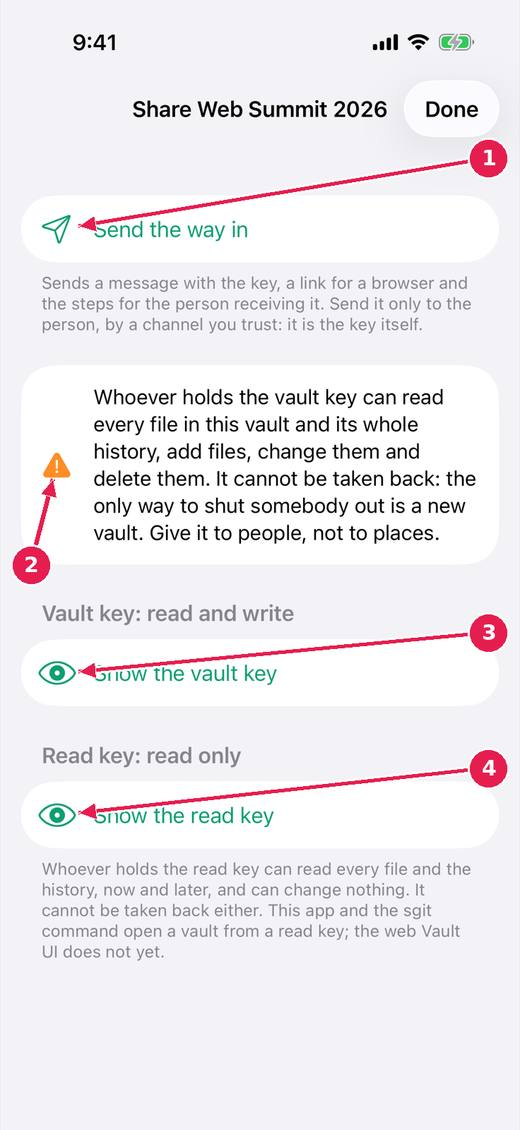
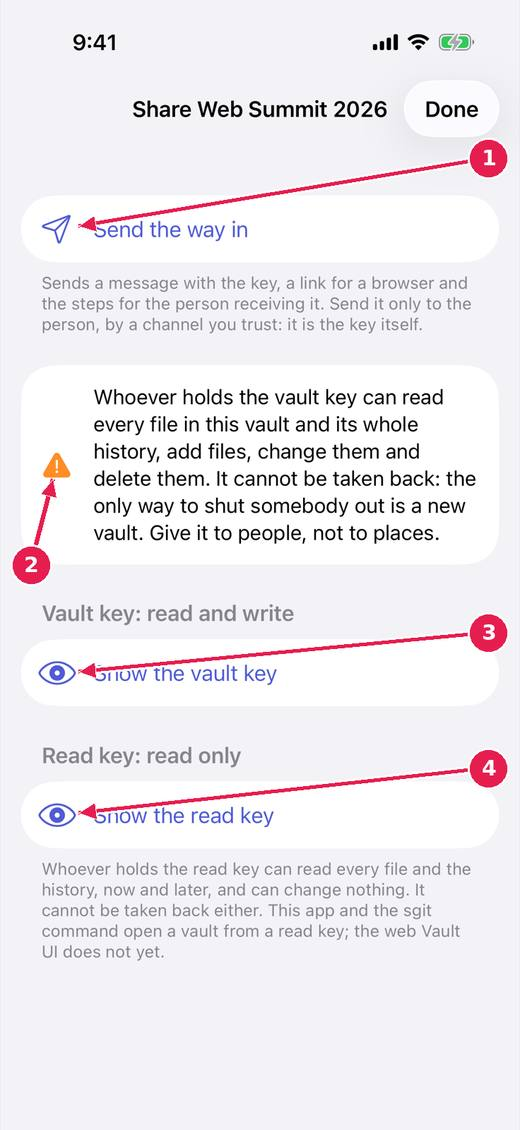
SGit Vaults guides redrawn from the restyled screens (run 43606971217); the home screen's callouts follow its new rows
Claude-Session: https://claude.ai/code/session_018yvwtNnu3tccNWx11H7S2h

diff --git a/website/guides/sgit-start/index.html b/website/guides/sgit-start/index.html
@@ -4,13 +4,13 @@
 <meta charset="utf-8">
 <meta name="viewport" content="width=device-width, initial-scale=1, viewport-fit=cover">
 <title>SGit Vaults: open a vault you were sent, or make one: a guide to VoiceDebrief for iOS</title>
-<meta name="description" content="SGit Vaults keeps photos, videos and large files in an encrypted vault that a teammate can open.">
+<meta name="description" content="SGit Vaults keeps photos, videos, large files and secrets in encrypted vaults that a teammate can open.">
 <link rel="canonical" href="https://ios.app.voicedebrief.ai/guides/sgit-start/index.html">
 <meta property="og:url" content="https://ios.app.voicedebrief.ai/guides/sgit-start/index.html">
 <meta property="og:type" content="website">
 <meta property="og:site_name" content="VoiceDebrief for iOS">
 <meta property="og:title" content="SGit Vaults: open a vault you were sent, or make one: a guide to VoiceDebrief for iOS">
-<meta property="og:description" content="SGit Vaults keeps photos, videos and large files in an encrypted vault that a teammate can open.">
+<meta property="og:description" content="SGit Vaults keeps photos, videos, large files and secrets in encrypted vaults that a teammate can open.">
 <link rel="alternate" type="text/markdown" href="index.md" title="This page as markdown">
 <link rel="icon" href="../../assets/favicon.svg" type="image/svg+xml">
 <link rel="stylesheet" href="../../assets/vd-tokens.css">
@@ -37,16 +37,17 @@
 <main class="doc">
 <div class="crumb"><a href="../../index.html">VoiceDebrief iOS</a> / guides / sgit-start</div>
 <h1 id="sgit-vaults-open-a-vault-you-were-sent-or-make-one">SGit Vaults: open a vault you were sent, or make one</h1>
-<p>SGit Vaults keeps photos, videos and large files in an encrypted vault that a teammate can open. A vault you create is kept on this device and needs no account, no access key and no network until you share it.</p>
+<p>SGit Vaults keeps photos, videos, large files and secrets in encrypted vaults that a teammate can open. A vault you create is kept on this device and needs no account, no access key and no network until you share it.</p>
 <p><a href="../index.html">Every guide</a> · <a href="../../ideas/index.html">Ideas and where they stand</a></p>
 <h2 id="1-the-first-screen">1. The first screen.</h2>
 <p><img class="shot" src="../img/sgit-start-1.jpg" alt="The first screen. Numbered arrows mark the parts described below." loading="lazy"></p>
 <ol>
 <li>A shared vault: on the server, and you can add and change.</li>
 <li>A vault only on this device, not shared with anybody.</li>
-<li>Gallery: vaults to show somebody, each opened in the web Vault inside the app.</li>
-<li>Add a vault you were sent: paste or scan what you were given.</li>
-<li>Create a vault, on this device.</li>
+<li>Secrets: passwords, passcodes, Wi-Fi and keys, kept encrypted in vaults.</li>
+<li>Questions for you, from the people building the app: answer by typing or speaking.</li>
+<li>Guide and what is new: what changed in each version and how each part works.</li>
+<li>Gallery: vaults to show somebody, opened inside the app. Adding a vault you were sent and creating one are further down.</li>
 </ol>
 <h2 id="2-add-a-vault-you-were-sent">2. Add a vault you were sent.</h2>
 <p><img class="shot" src="../img/sgit-start-2.jpg" alt="Add a vault you were sent. Numbered arrows mark the parts described below." loading="lazy"></p>
@@ -61,7 +62,7 @@
 <li>sgit app: a teammate sent a vault key cannot add to it: <strong>In progress</strong>. Open, and named by the release notes of v0.1.45.</li>
 <li>A gallery of vaults, opened in a browser inside the app: <strong>In progress</strong>. The issue says: &quot;Built: a Gallery screen reached from the list of vaults. Entries have a name, a line about them, a topic and a link; they are grouped by topic and can be...&quot;</li>
 </ul>
-<p><em>Pictures: SGit Vaults: iPhone, light, from sgit-app-screens.yml run 19 on dev (commit e62bf68, 14 November 2026).</em></p>
+<p><em>Pictures: SGit Vaults: iPhone, light, from sgit-app-screens.yml run 43606971217 on work/sherpa at 0f2e6f8 (the same tree as dev, 14 November 2026), after the design session's restyle.</em></p>
 </main>
 
 <footer class="site"><div class="cols">

diff --git a/website/guides/index.html b/website/guides/index.html
@@ -48,12 +48,12 @@
 <tr><td><a href="recipients/index.html">Send a note to somebody</a></td><td>VoiceDebrief</td><td>A recipient is a person, another device or an agent session that has given you their link.</td></tr>
 <tr><td><a href="briefing/index.html">What happened since you last looked</a></td><td>VoiceDebrief</td><td>When you open the app, a card on the Record tab says what is new: an update, with a link to what changed, and what happened to your notes since you last opened it.</td></tr>
 <tr><td><a href="settings/index.html">Settings: language, saving, identity, credit</a></td><td>VoiceDebrief</td><td>The few things to set once, and the places for the rest: who you are, who you send to, and the experiments.</td></tr>
-<tr><td><a href="sgit-start/index.html">SGit Vaults: open a vault you were sent, or make one</a></td><td>SGit Vaults</td><td>SGit Vaults keeps photos, videos and large files in an encrypted vault that a teammate can open.</td></tr>
+<tr><td><a href="sgit-start/index.html">SGit Vaults: open a vault you were sent, or make one</a></td><td>SGit Vaults</td><td>SGit Vaults keeps photos, videos, large files and secrets in encrypted vaults that a teammate can open.</td></tr>
 <tr><td><a href="sgit-vault/index.html">SGit Vaults: inside a vault, and its history</a></td><td>SGit Vaults</td><td>A vault holds folders and files, like a folder on a computer, with every change kept as a signed commit.</td></tr>
 <tr><td><a href="sgit-share/index.html">SGit Vaults: share a vault, and create one on the server</a></td><td>SGit Vaults</td><td>Sharing gives somebody the vault's key.</td></tr>
 <tr><td><a href="sgit-secrets/index.html">SGit Vaults: secrets, kept in a vault</a></td><td>SGit Vaults</td><td>A secret is a password, a Wi-Fi network, a server or a card, kept as one encrypted file in a vault, behind Face ID.</td></tr>
 </tbody></table></div>
-<p><em>Pictures: iPhone, light, from screens.yml run 39 on dev (commit 1d21781, 14 November 2026). Newer builds may differ: the record screen now chooses who a note is for above the record control. SGit Vaults: iPhone, light, from sgit-app-screens.yml run 19 on dev (commit e62bf68, 14 November 2026).</em></p>
+<p><em>Pictures: iPhone, light, from screens.yml run 39 on dev (commit 1d21781, 14 November 2026). Newer builds may differ: the record screen now chooses who a note is for above the record control. SGit Vaults: iPhone, light, from sgit-app-screens.yml run 43606971217 on work/sherpa at 0f2e6f8 (the same tree as dev, 14 November 2026), after the design session's restyle.</em></p>
 </main>
 
 <footer class="site"><div class="cols">

diff --git a/website/guides/sgit-secrets/index.html b/website/guides/sgit-secrets/index.html
@@ -70,7 +70,7 @@
 <li>Secrets as files in vaults: <strong>Built, untried</strong>. Listed on the design page &quot;A secrets manager made of people and vaults&quot; as built, not yet proven.</li>
 <li>Questions for the owner, by voice: <strong>Built, untried</strong>. Listed on the design page &quot;A secrets manager made of people and vaults&quot; as built, not yet proven.</li>
 </ul>
-<p><em>Pictures: SGit Vaults: iPhone, light, from sgit-app-screens.yml run 43592618173 (work/sgit-app at 6b13fcb, landed on dev as 9ea9212, 14 November 2026), before the design session's restyle.</em></p>
+<p><em>Pictures: SGit Vaults: iPhone, light, from sgit-app-screens.yml run 43606971217 on work/sherpa at 0f2e6f8 (the same tree as dev, 14 November 2026), after the design session's restyle.</em></p>
 </main>
 
 <footer class="site"><div class="cols">

diff --git a/website/guides/sgit-share/index.html b/website/guides/sgit-share/index.html
@@ -60,7 +60,7 @@
 <li>sgit app: the Create sheet, the four keys, and smaller things: <strong>In progress</strong>. Open, and named by the release notes of v0.1.44.</li>
 <li>A read-only share that can be taken back: <strong>Parked</strong>. The issue's status: &quot;Status: open. A question for the owner.&quot;</li>
 </ul>
-<p><em>Pictures: SGit Vaults: iPhone, light, from sgit-app-screens.yml run 19 on dev (commit e62bf68, 14 November 2026).</em></p>
+<p><em>Pictures: SGit Vaults: iPhone, light, from sgit-app-screens.yml run 43606971217 on work/sherpa at 0f2e6f8 (the same tree as dev, 14 November 2026), after the design session's restyle.</em></p>
 </main>
 
 <footer class="site"><div class="cols">

diff --git a/website/guides/sgit-vault/index.html b/website/guides/sgit-vault/index.html
@@ -62,7 +62,7 @@
 <li>sgit app: who added it: <strong>In progress</strong>. Open, and named by the release notes of v0.1.44.</li>
 <li>sgit app: getting a folder out, at full quality: <strong>In progress</strong>. Open, and named by the release notes of v0.1.44.</li>
 </ul>
-<p><em>Pictures: SGit Vaults: iPhone, light, from sgit-app-screens.yml run 19 on dev (commit e62bf68, 14 November 2026).</em></p>
+<p><em>Pictures: SGit Vaults: iPhone, light, from sgit-app-screens.yml run 43606971217 on work/sherpa at 0f2e6f8 (the same tree as dev, 14 November 2026), after the design session's restyle.</em></p>
 </main>
 
 <footer class="site"><div class="cols">

diff --git a/website/guides/index.md b/website/guides/index.md
@@ -11,9 +11,9 @@ A page per feature, with pictures of the screens and numbered arrows. The same g
 | [Send a note to somebody](recipients/index.md) | VoiceDebrief | A recipient is a person, another device or an agent session that has given you their link. |
 | [What happened since you last looked](briefing/index.md) | VoiceDebrief | When you open the app, a card on the Record tab says what is new: an update, with a link to what changed, and what happened to your notes since you last opened it. |
 | [Settings: language, saving, identity, credit](settings/index.md) | VoiceDebrief | The few things to set once, and the places for the rest: who you are, who you send to, and the experiments. |
-| [SGit Vaults: open a vault you were sent, or make one](sgit-start/index.md) | SGit Vaults | SGit Vaults keeps photos, videos and large files in an encrypted vault that a teammate can open. |
+| [SGit Vaults: open a vault you were sent, or make one](sgit-start/index.md) | SGit Vaults | SGit Vaults keeps photos, videos, large files and secrets in encrypted vaults that a teammate can open. |
 | [SGit Vaults: inside a vault, and its history](sgit-vault/index.md) | SGit Vaults | A vault holds folders and files, like a folder on a computer, with every change kept as a signed commit. |
 | [SGit Vaults: share a vault, and create one on the server](sgit-share/index.md) | SGit Vaults | Sharing gives somebody the vault's key. |
 | [SGit Vaults: secrets, kept in a vault](sgit-secrets/index.md) | SGit Vaults | A secret is a password, a Wi-Fi network, a server or a card, kept as one encrypted file in a vault, behind Face ID. |
 
-*Pictures: iPhone, light, from screens.yml run 39 on dev (commit 1d21781, 14 November 2026). Newer builds may differ: the record screen now chooses who a note is for above the record control. SGit Vaults: iPhone, light, from sgit-app-screens.yml run 19 on dev (commit e62bf68, 14 November 2026).*
+*Pictures: iPhone, light, from screens.yml run 39 on dev (commit 1d21781, 14 November 2026). Newer builds may differ: the record screen now chooses who a note is for above the record control. SGit Vaults: iPhone, light, from sgit-app-screens.yml run 43606971217 on work/sherpa at 0f2e6f8 (the same tree as dev, 14 November 2026), after the design session's restyle.*

diff --git a/website/guides/sgit-start/index.md b/website/guides/sgit-start/index.md
@@ -1,6 +1,6 @@
 # SGit Vaults: open a vault you were sent, or make one
 
-SGit Vaults keeps photos, videos and large files in an encrypted vault that a teammate can open. A vault you create is kept on this device and needs no account, no access key and no network until you share it.
+SGit Vaults keeps photos, videos, large files and secrets in encrypted vaults that a teammate can open. A vault you create is kept on this device and needs no account, no access key and no network until you share it.
 
 [Every guide](../index.md) · [Ideas and where they stand](../../ideas/index.md)
 
@@ -10,9 +10,10 @@ SGit Vaults keeps photos, videos and large files in an encrypted vault that a te
 
 1. A shared vault: on the server, and you can add and change.
 2. A vault only on this device, not shared with anybody.
-3. Gallery: vaults to show somebody, each opened in the web Vault inside the app.
-4. Add a vault you were sent: paste or scan what you were given.
-5. Create a vault, on this device.
+3. Secrets: passwords, passcodes, Wi-Fi and keys, kept encrypted in vaults.
+4. Questions for you, from the people building the app: answer by typing or speaking.
+5. Guide and what is new: what changed in each version and how each part works.
+6. Gallery: vaults to show somebody, opened inside the app. Adding a vault you were sent and creating one are further down.
 
 ## 2. Add a vault you were sent.
 
@@ -28,4 +29,4 @@ SGit Vaults keeps photos, videos and large files in an encrypted vault that a te
 - sgit app: a teammate sent a vault key cannot add to it: **In progress**. Open, and named by the release notes of v0.1.45.
 - A gallery of vaults, opened in a browser inside the app: **In progress**. The issue says: "Built: a Gallery screen reached from the list of vaults. Entries have a name, a line about them, a topic and a link; they are grouped by topic and can be..."
 
-*Pictures: SGit Vaults: iPhone, light, from sgit-app-screens.yml run 19 on dev (commit e62bf68, 14 November 2026).*
+*Pictures: SGit Vaults: iPhone, light, from sgit-app-screens.yml run 43606971217 on work/sherpa at 0f2e6f8 (the same tree as dev, 14 November 2026), after the design session's restyle.*

diff --git a/website/guides/sgit-secrets/index.md b/website/guides/sgit-secrets/index.md
@@ -38,4 +38,4 @@ A secret is a password, a Wi-Fi network, a server or a card, kept as one encrypt
 - Secrets as files in vaults: **Built, untried**. Listed on the design page "A secrets manager made of people and vaults" as built, not yet proven.
 - Questions for the owner, by voice: **Built, untried**. Listed on the design page "A secrets manager made of people and vaults" as built, not yet proven.
 
-*Pictures: SGit Vaults: iPhone, light, from sgit-app-screens.yml run 43592618173 (work/sgit-app at 6b13fcb, landed on dev as 9ea9212, 14 November 2026), before the design session's restyle.*
+*Pictures: SGit Vaults: iPhone, light, from sgit-app-screens.yml run 43606971217 on work/sherpa at 0f2e6f8 (the same tree as dev, 14 November 2026), after the design session's restyle.*

diff --git a/website/guides/sgit-share/index.md b/website/guides/sgit-share/index.md
@@ -27,4 +27,4 @@ Sharing gives somebody the vault's key. Whoever holds it can read everything in 
 - sgit app: the Create sheet, the four keys, and smaller things: **In progress**. Open, and named by the release notes of v0.1.44.
 - A read-only share that can be taken back: **Parked**. The issue's status: "Status: open. A question for the owner."
 
-*Pictures: SGit Vaults: iPhone, light, from sgit-app-screens.yml run 19 on dev (commit e62bf68, 14 November 2026).*
+*Pictures: SGit Vaults: iPhone, light, from sgit-app-screens.yml run 43606971217 on work/sherpa at 0f2e6f8 (the same tree as dev, 14 November 2026), after the design session's restyle.*

diff --git a/website/guides/sgit-vault/index.md b/website/guides/sgit-vault/index.md
@@ -29,4 +29,4 @@ A vault holds folders and files, like a folder on a computer, with every change 
 - sgit app: who added it: **In progress**. Open, and named by the release notes of v0.1.44.
 - sgit app: getting a folder out, at full quality: **In progress**. Open, and named by the release notes of v0.1.44.
 
-*Pictures: SGit Vaults: iPhone, light, from sgit-app-screens.yml run 19 on dev (commit e62bf68, 14 November 2026).*
+*Pictures: SGit Vaults: iPhone, light, from sgit-app-screens.yml run 43606971217 on work/sherpa at 0f2e6f8 (the same tree as dev, 14 November 2026), after the design session's restyle.*
